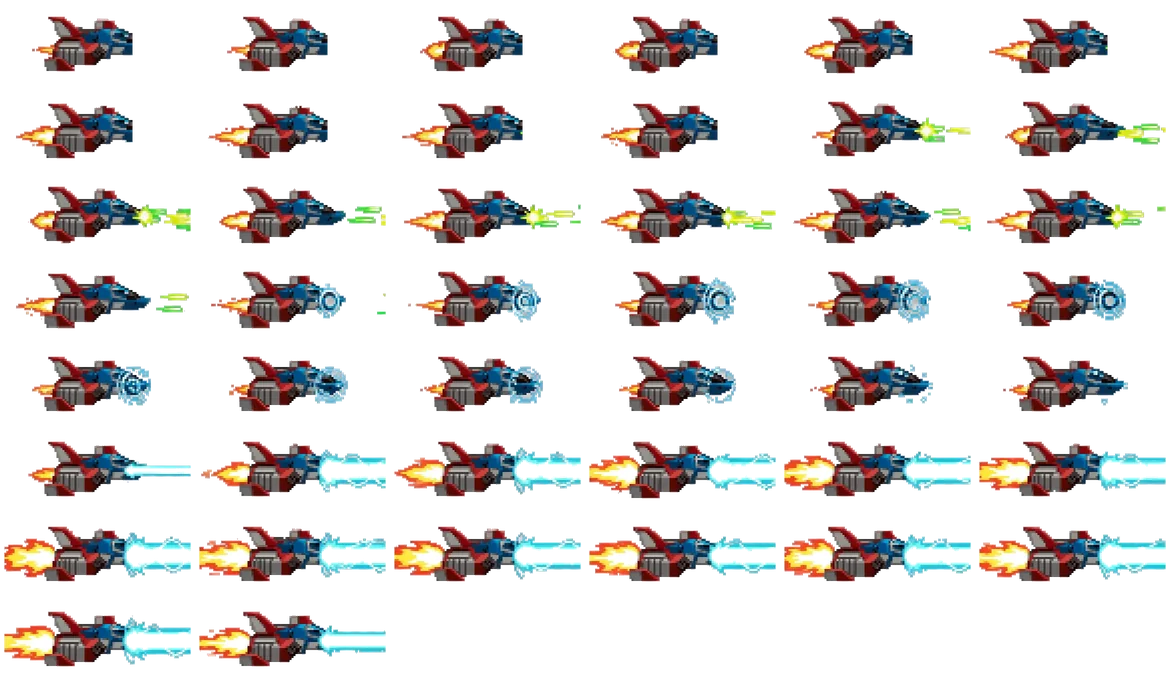
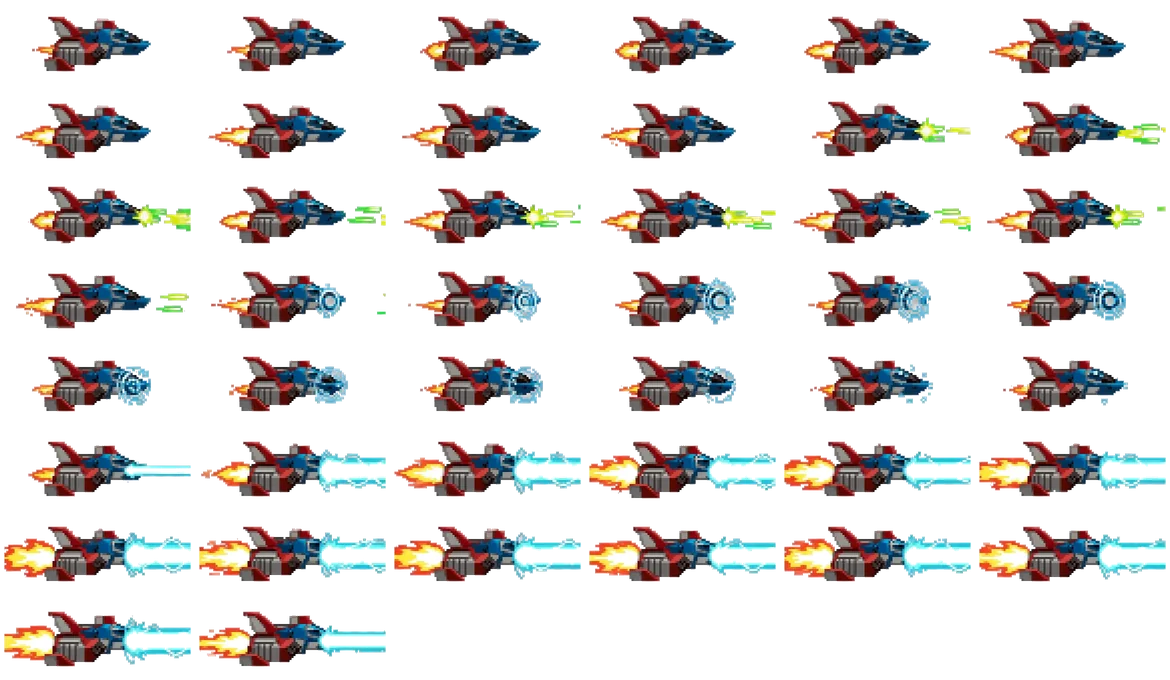
nose job

diff --git a/index.html b/index.html
@@ -320,6 +320,6 @@
     <button class="btn-gate" id="modalClose" type="button">
       <span class="btn-label">بستن</span></button></div></div>
 <div class="toast" id="toast" role="status" hidden>هر چهار دنیا را پیمودید. حالا نوبت ساختن دنیای بعدی است.</div>
-<script src="assets/main.js?v=mm2525" defer></script>
+<script src="assets/main.js?v=mm2526" defer></script>
 </body>
 </html>

diff --git a/assets/main.js b/assets/main.js
@@ -831,9 +831,9 @@
       };
       im.src = src;
     }
-    loadSheet('ship', 'assets/spr_ship.webp');
-    loadSheet('mario', 'assets/spr_mario.webp');
-    loadSheet('mother', 'assets/spr_mother.webp');
+    loadSheet('ship', 'assets/spr_ship.webp?v=mm2526');
+    loadSheet('mario', 'assets/spr_mario.webp?v=mm2526');
+    loadSheet('mother', 'assets/spr_mother.webp?v=mm2526');
   }
   initSprSheets();
 
